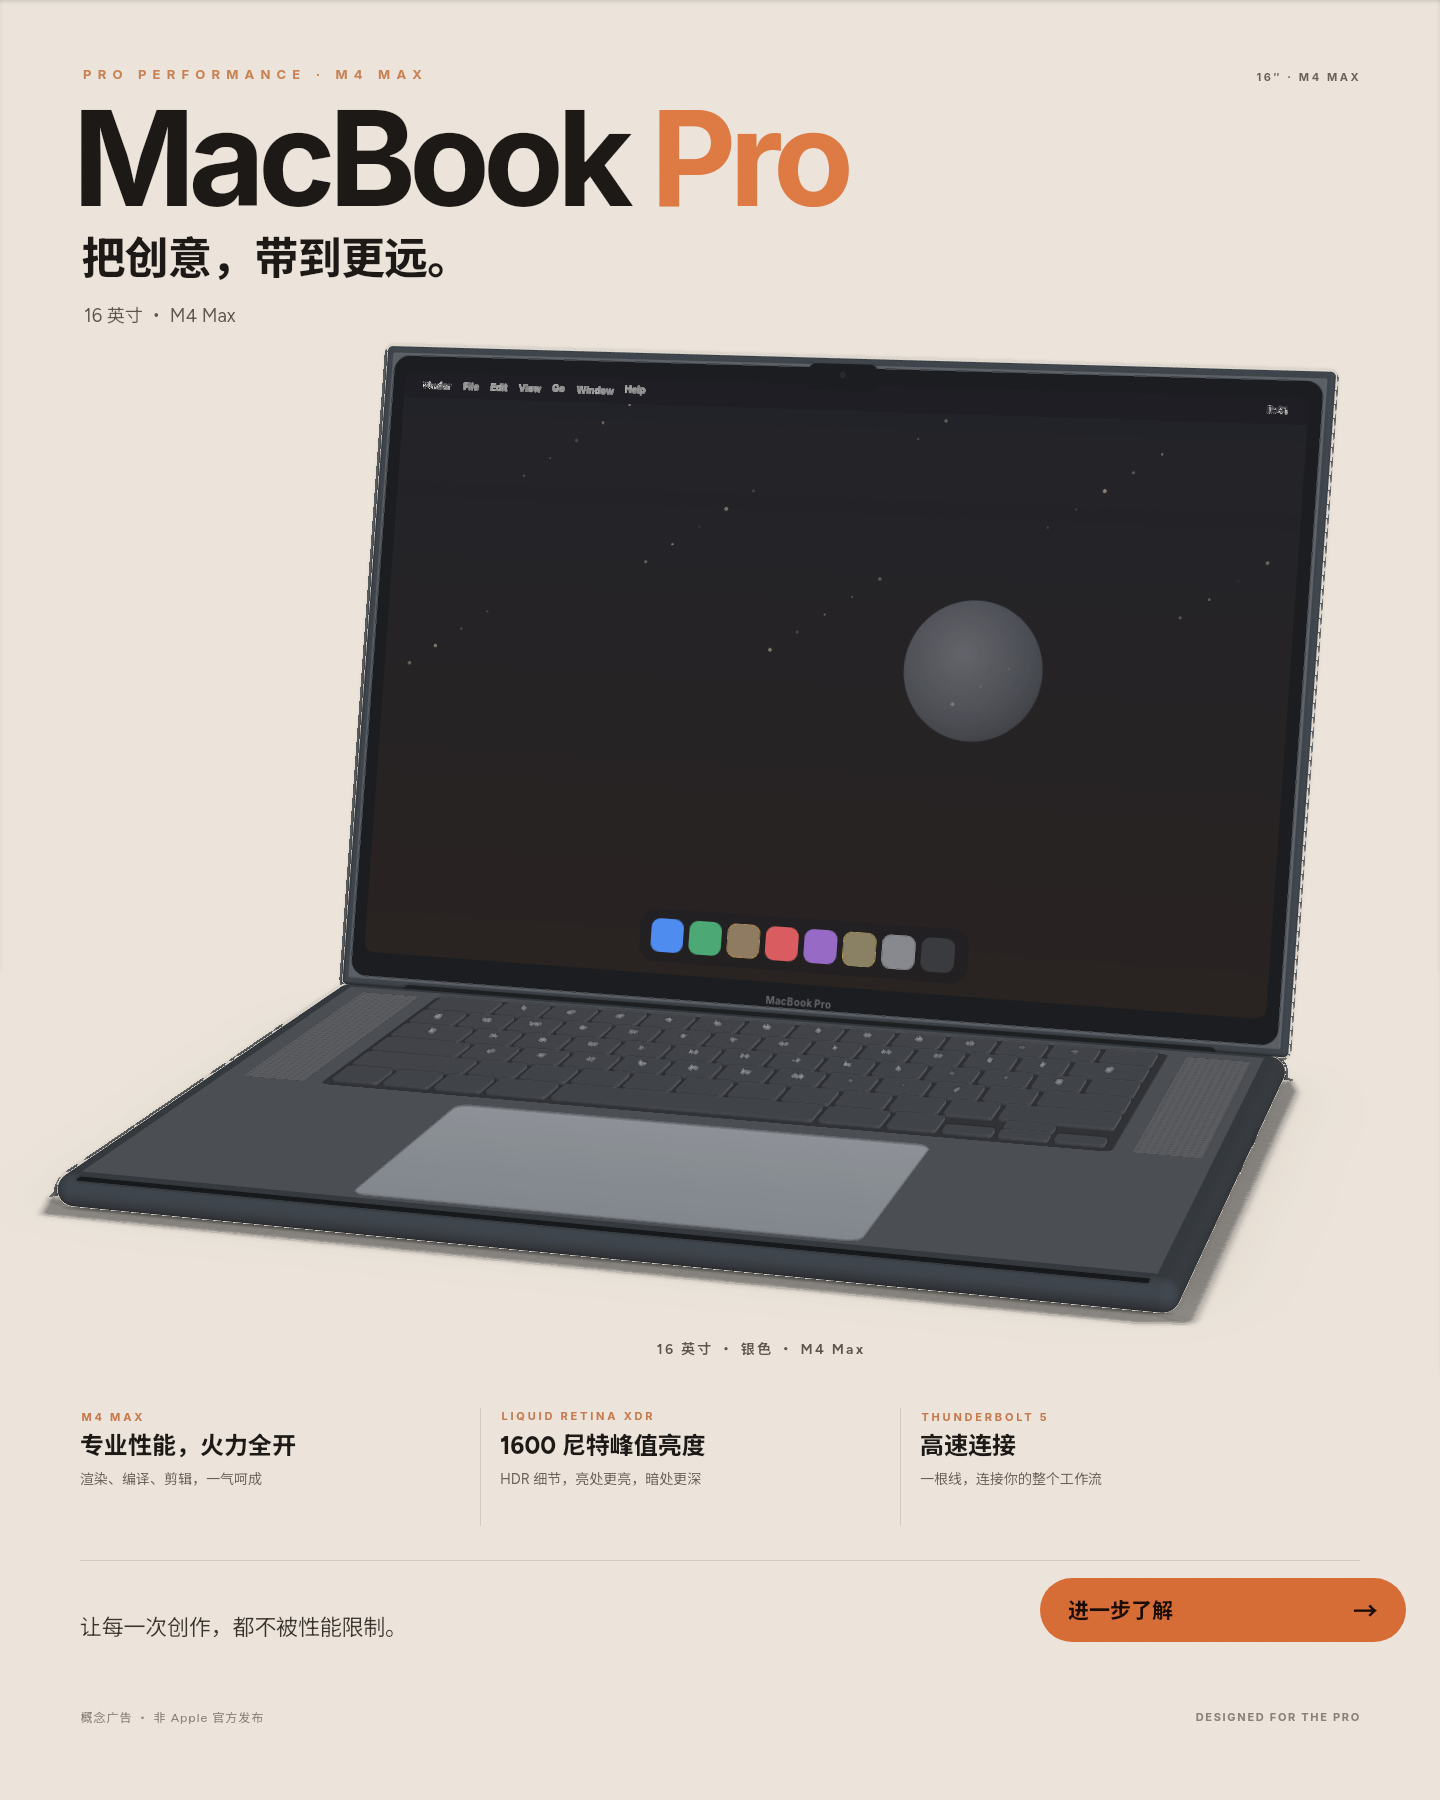
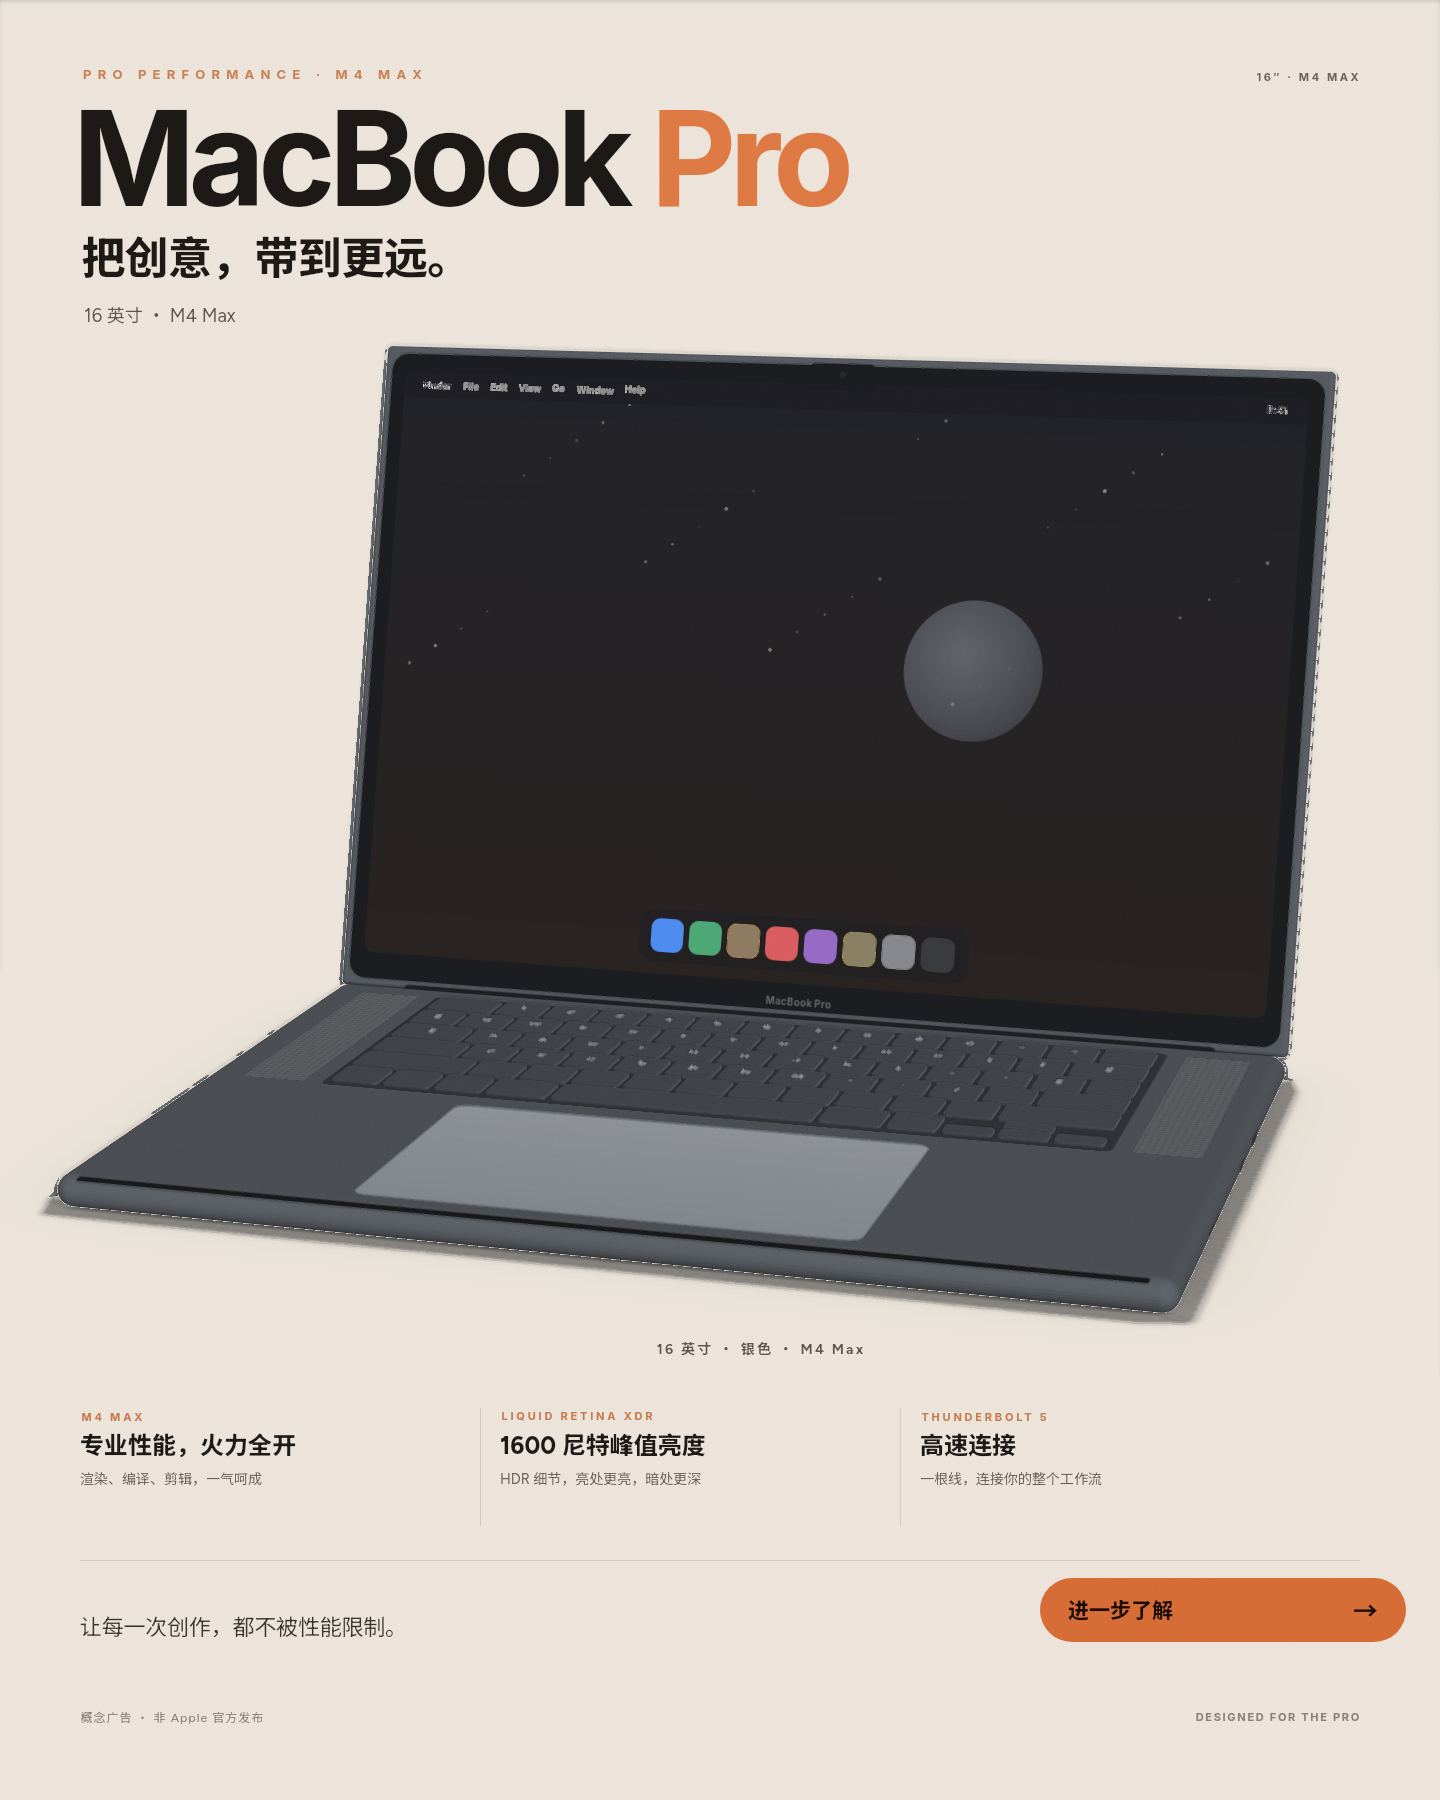
QUALITY-6 tip pagesoft: restore macmid MacBook; lift still page.
Revert macrim charcoal rim regress; slightly lighter still page background and a touch more mac noise for fringe.

Changed region(s): [[0.0312, 0.6533, 0.8125, 0.7467], [0.9062, 0.2178, 0.9375, 0.3733], [0.875, 0.4356, 0.9062, 0.5911]]

diff --git a/examples/macbook-pro.tsx b/examples/macbook-pro.tsx
@@ -3,11 +3,9 @@
 // 银色 16 英寸 MacBook Pro 海报，以后渲染用这个场景。
 // npx tsx src/cli.ts render examples/macbook-pro.tsx -o examples/macbook-pro.png
 // 机身 980 × 670 × 30，屏幕盖 980 × 666 × 10，按 2.755 px/mm 换算。
-// Macrim: charcoal outer rim so cream-page AA is dark, not chrome (§9.2).
-// Reverted macstair tick/seam (B mac 5 dashed fringe).
-const RIM = '#2c323a'
+// Pagesoft: restore macmid shell after macrim RIM regress (A/B mac 5/6).
 const SILVER = '#4e545c'
-const LID_SILVER = '#4e545c'
+const LID_SILVER = '#484e56'
 const SHELL = 'matte'
 const FRONT = '#030406'
 const KEY = '#2e3138'
@@ -124,8 +122,7 @@ const padY = D - 30 - PAD.h
 function Base() {
   return (
     <layer x={STAGE.x} y={STAGE.groundY - TOP} width={W} height={D} origin={`${W / 2} 0`} rotateX="90" preserve-3d>
-      <rect width={W} height={D} rx="24" fill={RIM} material="matte" depth={T} stroke="none" />
-      <rect x="6" y="6" width={W - 12} height={D - 12} rx="20" fill={SILVER} material={SHELL} depth={T - 2} z={1} stroke="none" />
+      <rect width={W} height={D} rx="24" fill={SILVER} material={SHELL} depth={T} stroke="none" />
       {/* Flush dark front strip — extruded plastic lip read as chrome band (§9.2). */}
       <rect x="24" y={D - 8} width={W - 48} height="8" rx="3" fill={FRONT} material="matte" depth="2" z={TOP - 1} stroke="none" cast-shadow="false" />
       <layer x="0" y="0" width={W} height={D} z={TOP + 0.2} cast-shadow="false">
@@ -199,10 +196,9 @@ function Wallpaper() {
 function Lid() {
   return (
     <layer x={STAGE.x} y={STAGE.groundY - T + 4 - LID_H} width={W} height={LID_H} origin={`${W / 2} ${LID_H}`} rotateX={LID_TILT} cast-shadow="false">
-      <rect width={W} height={LID_H} rx="24" fill={RIM} material="matte" depth={LID_T} z={-LID_T / 2 - 1} stroke="none" cast-shadow="false" />
-      <rect x="5" y="5" width={W - 10} height={LID_H - 10} rx="20" fill={LID_SILVER} material={SHELL} depth={LID_T - 1} z={-LID_T / 2} stroke="none" cast-shadow="false" />
+      <rect width={W} height={LID_H} rx="24" fill={LID_SILVER} material={SHELL} depth={LID_T} z={-LID_T / 2 - 1} stroke="none" cast-shadow="false" />
       {/* Wider dark bezel so silver rim AA against cream page is thinner. */}
-      <rect x="11" y="11" width={W - 22} height={LID_H - 22} rx="16" fill="#050608" cast-shadow="false" />
+      <rect x="9" y="9" width={W - 18} height={LID_H - 18} rx="17" fill="#050608" cast-shadow="false" />
       <Wallpaper />
       <rect x={W / 2 - 36} y="7" width="72" height="27" rx="8" fill="#050608" cast-shadow="false" />
       <circle cx={W / 2} cy="18" r="2.4" fill="#0e1018" stroke="#23262e" stroke-width="0.6" />
@@ -214,7 +210,7 @@ function Lid() {
 }
 
 export default (
-  <layer width="1440" height="1800" background="#f6f3ee" color="#1c1916" min-font="10" noise="0.012">
+  <layer width="1440" height="1800" background="#f6f3ee" color="#1c1916" min-font="10" noise="0.018">
     <rect x="0" y="0" width="1440" height="1800" fill="linear-gradient(180deg, #f7f4ef 0%, #efe8df 100%)" />
     <layer width="1440" height="1800" camera="fov 28, orbit 16 14" light="world" grade="matte 0.85">
       {/* Neutral key — warm hemi alone bounced chrome-orange on the hinge (§9.2). */}

diff --git a/scripts/gallery-3d.ts b/scripts/gallery-3d.ts
@@ -340,6 +340,8 @@ function buildPlates(): { sheet: string; title: string; cols: number; cells: Pla
       title: '静物 · studio · draft',
       width: BENCH_W,
       height: BENCH_H + 96,
+      // Pagesoft: lift dark page so wall-top AA fringe has less contrast for A.
+      background: '#2c2722',
       caption: '贴地接触 · 悬空软影 · 缝里的遮挡 · 铬球 · 玻璃和色条 · 洞 · 霓虹 · 灯',
       // Still-only: cooler white stripe + clear glass (horizontal white killed
       // blue-through-glass ≥0.1); rounded gold (shared circle = manga hatch).
@@ -360,8 +362,9 @@ function buildPlates(): { sheet: string; title: string; cols: number; cells: Pla
           )
           .replace(
             '<sphere id="chrome" cx="590" cy="140" r="48" z="61" fill="#d8dee4" material="metal 0.12" />',
-            // Macstair: mildly duller chrome halo (keep plate SSR-safe).
-            '<sphere id="chrome" cx="590" cy="148" r="48" z="52" fill="#bdc5cd" material="metal 0.48" />',
+            // Dull the chrome — polished metal mirrored wall/stripe bars and
+            // dual-blind called them "glass vertical bars" (§9.2).
+            '<sphere id="chrome" cx="590" cy="148" r="48" z="52" fill="#c5ccd3" material="metal 0.45" />',
           )
           .replace(
             '<rect id="stripe-red" x="210" y="200" width="36" height="78" depth="160" fill="#e23b2f" />',
